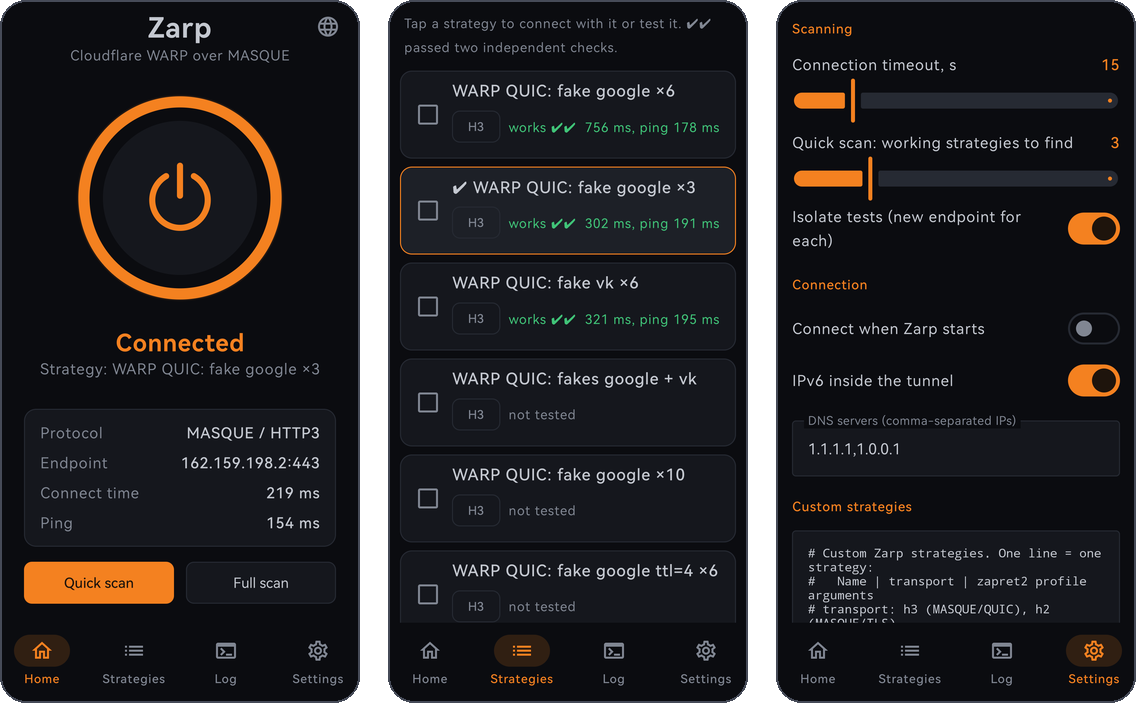
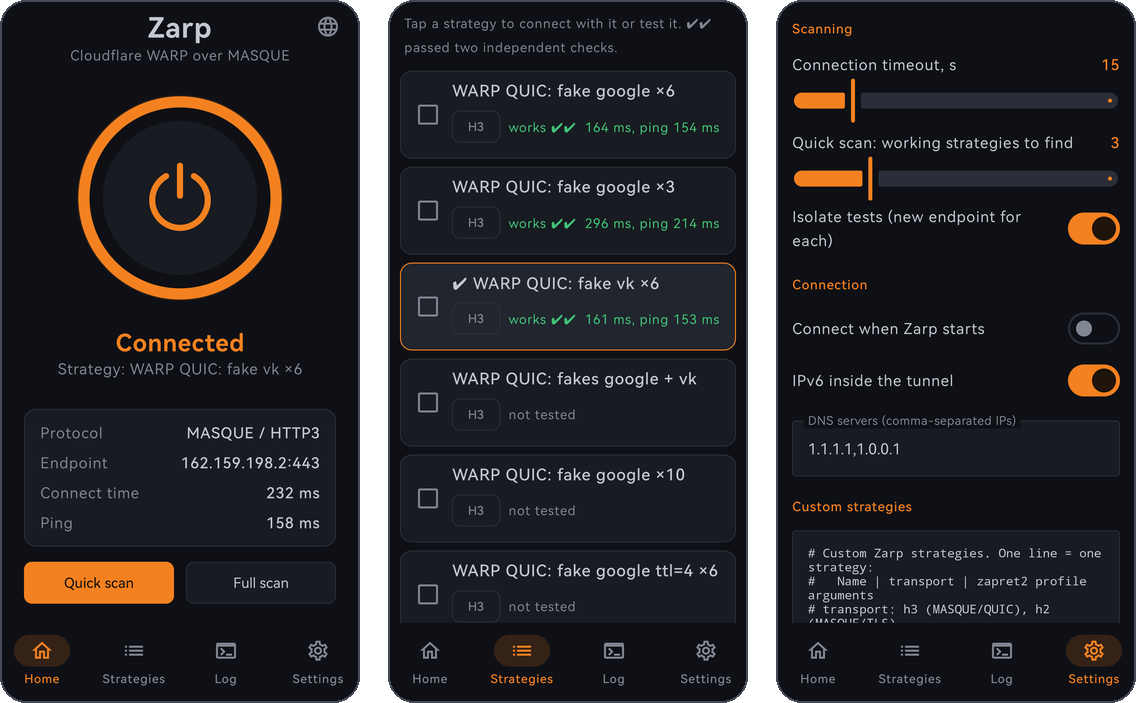
Softer dark palette, new screenshots

diff --git a/app/src/main/java/io/github/feg55/zarp/ui/Theme.kt b/app/src/main/java/io/github/feg55/zarp/ui/Theme.kt
@@ -6,15 +6,15 @@ import androidx.compose.runtime.Composable
 import androidx.compose.ui.graphics.Color
 
 /**
- * Colors of the desktop Zarp (Theme.cs). Background and panels are a step darker:
+ * Colors of the desktop Zarp (Theme.cs). Background and panels are half a step darker:
  * phone screens show dark grays brighter than a desktop monitor.
  */
 object Zc {
-    val Back = Color(0xFF0B0C10)
-    val Panel = Color(0xFF15171D)
-    val PanelHover = Color(0xFF1D2027)
-    val Border = Color(0xFF262A33)
-    val BorderHover = Color(0xFF363B47)
+    val Back = Color(0xFF0F1015)
+    val Panel = Color(0xFF181B21)
+    val PanelHover = Color(0xFF21252D)
+    val Border = Color(0xFF2A2E38)
+    val BorderHover = Color(0xFF3B404C)
 
     // not pure white: it hurts on a dark background
     val Text = Color(0xFFC4C8D0)
